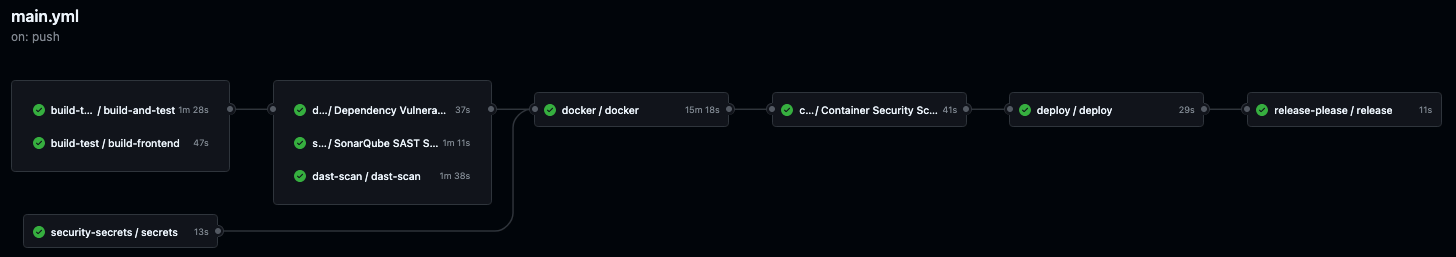
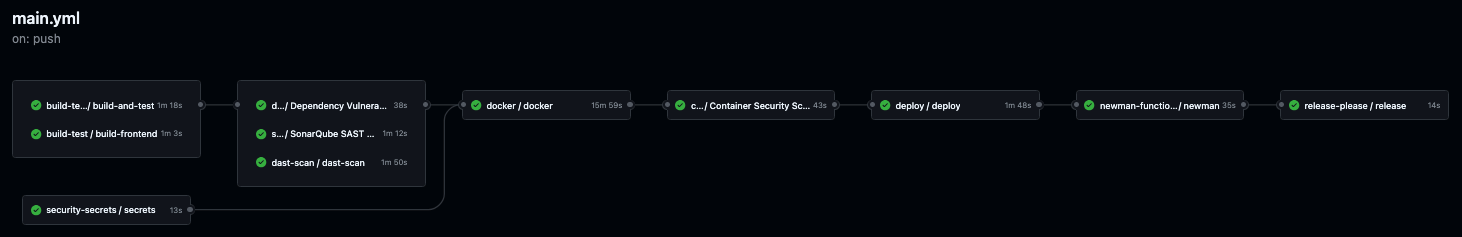
docs: final report

diff --git a/Deliverables/Report-Phase-3.md b/Deliverables/Report-Phase-3.md
@@ -32,12 +32,31 @@ The system architecture consists of a Next.js web frontend, a Spring Boot REST A
 
 # Full Workflow
 
+## Overview
+
+Compared to the previous report, the CI/CD workflows were extended to support the frontend application across all environments.
+
+The following improvements were introduced:
+
+* **Frontend build integration**: Frontend build stages were added to the Feature, Dev, and Main workflows, ensuring that frontend changes are continuously validated alongside backend changes.
+* **Full-stack deployment**: The Main workflow was extended to deploy the frontend application together with the backend, providing a complete automated deployment process.
+* **Functional testing**: Functional tests were added to the Main workflow to validate end-to-end system behavior after the build and deployment stages.
+
+These enhancements strengthen the CI/CD process by providing full-stack validation, automated frontend deployment, and additional quality assurance through functional testing before production releases.
+
+
+
+### Example of workflow run to feature branch
+
 <img src="./images/phase-3/feature-workflow.png" alt="Feature Branch Workflow" width="600">
+
+### Example of workflow run to dev branch
 
 <img src="./images/phase-3/dev-workflow.png" alt="Dev Branch Workflow" width="600">
 
-<img src="./images/phase-3/main-workflow.png" alt="Main Branch Workflow" width="1400">
+### Example of workflow run to main branch
 
+<img src="./images/phase-3/main-workflow.png" alt="Main Branch Workflow" width="1400">
 
 # Requirements Implemented
 
@@ -56,7 +75,7 @@ The system architecture consists of a Next.js web frontend, a Spring Boot REST A
 | FR9 | Display product details (price, description, stock) | <span style="color: green;">Done</span> |
 | FR10 | Allow customers to add products to the cart | <span style="color: green;">Done</span> |
 | FR11 | Allow customers to remove products from the cart | <span style="color: green;">Done</span> |
-| FR12 | Allow customers to update product quantities in the cart | <span style="color: red;">Not Done</span> |
+| FR12 | Allow customers to update product quantities in the cart | <span style="color: green;">Done</span> |
 | FR13 | Automatically calculate cart totals | <span style="color: green;">Done</span> |
 | FR14 | Allow customers to place orders | <span style="color: green;">Done</span> |
 | FR15 | Validate product stock before confirming orders | <span style="color: green;">Done</span> |
@@ -69,8 +88,8 @@ The system architecture consists of a Next.js web frontend, a Spring Boot REST A
 | FR22 | Allow managers to add new products | <span style="color: green;">Done</span> |
 | FR23 | Allow managers to edit product information | <span style="color: red;">Not Done</span> |
 | FR24 | Allow managers to manage product categories | <span style="color: green;">Done</span> |
-| FR25 | Allow managers to update product stock levels manually | <span style="color: red;">Not Done</span> |
-| FR26 | Allow managers to view and filter all customer orders | <span style="color: red;">Not Done</span> |
+| FR25 | Allow managers to update product stock levels manually | <span style="color: green;">Done</span> |
+| FR26 | Allow managers to view and filter all customer orders | <span style="color: green;">Done</span> |
 | FR27 | Allow managers to create backups of products, categories, and orders | <span style="color: orange;">Partially Done</span> |
 
 ---
@@ -117,27 +136,45 @@ The system architecture consists of a Next.js web frontend, a Spring Boot REST A
 | SR14 | Secure storage of sensitive logs | <span style="color: green;">Done</span> |
 | SR15 | Logs must be backed up in 3 locations (local + 2 cloud) | <span style="color: green;">Done</span> |
 
-# Production
+# Production Deployment
+
+For the production environment, an Azure Virtual Machine was provisioned to host both the backend API and the frontend application.
+
+To expose the applications to end users, Nginx was configured as a reverse proxy and web server, routing incoming requests to the appropriate services and serving the frontend application.
+
+Additionally, HTTPS was enabled for both the frontend and backend endpoints using *Let's Encrypt* certificates, ensuring encrypted communication between clients and the deployed services. This configuration improves security by protecting data in transit and providing trusted SSL/TLS certificates.
+
+The final production setup includes:
+
+- Azure VM hosting the application infrastructure.
+- Nginx configuration for application routing and reverse proxying.
+- Frontend and backend applications deployed on the same environment.
+- HTTPS enabled for both services.
+- Automatic certificate management through *Let's Encrypt*.
+
+### Nginx Configuration
 
 <img src="./images/phase-3/nginx-config.png" alt="Nginx Configuration" width="600">
 
-<img src="./images/phase-3/app.png" alt="App" width="1000">
+### Deployed Application
+
+<img src="./images/phase-3/app.png" alt="Application Running in Production" width="1000">
 
 # Security Requirements and Tests Traceability
 
 | Security Requirement | Test |
 |----------------------|------|
-| SR1 MFA | |
-| SR2 Lockout | |
-| SR3 Password policy | |
-| SR4 Registration email | |
-| SR5 RBAC | |
-| SR6 Session Expiry | |
-| SR7 Rate limiting | |
-| SR8 Encryption at rest and in transit | |
-| SR9 Password hashing | |
-| SR10 GDPR compliance | |
-| SR11 Input validation | |
-| SR12 Data format validation | |
-| SR13 Secure logs | |
-| SR14 Log backup | |
+| SR1 MFA | Postman Test: Try Login When User Has MFA; Postman Test: MFA Challenge |
+| SR2 Lockout | Postman Test: SR2 Lockout (Attempt_1–Attempt_6) |
+| SR3 Password policy | Postman Test: Register with Weak Password; Unit Tests: PasswordUtilsTest.java |
+| SR4 Registration email | Manual: Test it on the prod environment |
+| SR5 RBAC | Postman Test: Login As Customer; Postman Test: Try to access Manager Route |
+| SR6 Session Expiry | Obs: Since the session timeout is configured in supabase, and to change it we needed pro account, and the default value is 1 hour, it was not possible to test it on a functional test, so we test it manually |
+| SR7 Rate limiting | Postman Test: SR7 Rate limiting (Attempt_1–Attempt_6, Expect 429); Integration Test: RateLimitIntegrationTest.java |
+| SR8 Encryption at rest and in transit | Postman Test: Encryption in Transit |
+| SR9 Password hashing | Unit Tests: PasswordUtilsTest.java |
+| SR10 GDPR compliance | - |
+| SR11 Input validation | Postman Test: Register with Weak Password; Postman Test: Login With Wrong Data |
+| SR12 Data format validation | Postman Test: Login With Wrong Data |
+| SR13 Secure logs | Postman Test: Login With Wrong Creds |
+| SR14 Log backup | Manual: See the backups on the vm |

diff --git a/README.md b/README.md
@@ -14,3 +14,11 @@ Base repository for DESOFS project
 [Report Phase 2 - PDF](Deliverables/Report-Phase-2.pdf)
 
 [ASVS Excel Sheet](Deliverables/asvs-assessment/ASVS_5.0_Tracker.xlsx)
+
+## Report Phase 3
+
+[Report Phase 3 - Readme](Deliverables/Report-Phase-3.md)
+
+[Report Phase 3 - PDF](Deliverables/Report-Phase-3.pdf)
+
+[ASVS Excel Sheet](Deliverables/asvs-assessment/ASVS_5.0_Tracker.xlsx)